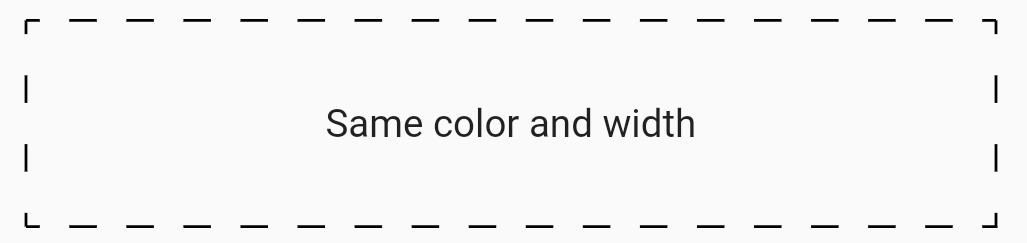
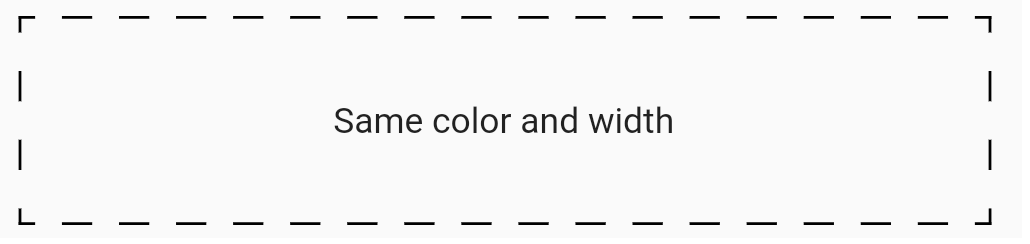
OnlyCorner and StrokeCap features

diff --git a/lib/src/dashed_border.dart b/lib/src/dashed_border.dart
@@ -10,12 +10,16 @@ class DashedBorder extends Border {
     super.right = BorderSide.none,
     super.bottom = BorderSide.none,
     super.left = BorderSide.none,
+    this.isOnlyCorner = false,
+    this.strokeCap = StrokeCap.square,
     required this.dashLength,
   });
 
   /// You can define same side for all corner.
   const DashedBorder.fromBorderSide({
     required BorderSide side,
+    this.isOnlyCorner = false,
+    this.strokeCap = StrokeCap.square,
     required this.dashLength,
   }) : super(bottom: side, top: side, left: side, right: side);
 
@@ -23,6 +27,8 @@ class DashedBorder extends Border {
   const DashedBorder.symmetric({
     BorderSide vertical = BorderSide.none,
     BorderSide horizontal = BorderSide.none,
+    this.isOnlyCorner = false,
+    this.strokeCap = StrokeCap.square,
     required this.dashLength,
   }) : super(
             bottom: horizontal,
@@ -36,14 +42,22 @@ class DashedBorder extends Border {
     double width = 1.0,
     BorderStyle style = BorderStyle.solid,
     dynamic strokeAlign = BorderSide.strokeAlignInside,
+    bool isOnlyCorner = false,
+    StrokeCap strokeCap = StrokeCap.square,
     required double dashLength,
   }) {
     final BorderSide side = BorderSide(
         color: color, width: width, style: style, strokeAlign: strokeAlign);
-    return DashedBorder.fromBorderSide(side: side, dashLength: dashLength);
+    return DashedBorder.fromBorderSide(
+        side: side,
+        dashLength: dashLength,
+        isOnlyCorner: isOnlyCorner,
+        strokeCap: strokeCap);
   }
 
   final double dashLength;
+  final StrokeCap strokeCap;
+  final bool isOnlyCorner;
 
   @override
   void paint(
@@ -97,8 +111,12 @@ class DashedBorder extends Border {
       }
       canvas.drawPath(
           metric.extractPath(distance % metric.length, target % metric.length),
-          top.toPaint());
-      distance = target + topSpacing;
+          top.toPaint()..strokeCap = strokeCap);
+      if (isOnlyCorner && distance < (topWidth) - diff) {
+        distance = (topWidth) - diff;
+      } else {
+        distance = target + topSpacing;
+      }
     }
     //endregion
 
@@ -129,8 +147,13 @@ class DashedBorder extends Border {
       }
       canvas.drawPath(
           metric.extractPath(distance % metric.length, target % metric.length),
-          right.toPaint());
-      distance = target + rightSpacing;
+          right.toPaint()..strokeCap = strokeCap);
+      if (isOnlyCorner &&
+          distance < (metric.length - bottomWidth - leftHeight) - diff) {
+        distance = (metric.length - bottomWidth - leftHeight) - diff;
+      } else {
+        distance = target + rightSpacing;
+      }
     }
     //endregion
 
@@ -159,8 +182,12 @@ class DashedBorder extends Border {
       }
       canvas.drawPath(
           metric.extractPath(distance % metric.length, target % metric.length),
-          bottom.toPaint());
-      distance = target + bottomSpacing;
+          bottom.toPaint()..strokeCap = strokeCap);
+      if (isOnlyCorner && distance < metric.length - leftHeight - diff) {
+        distance = metric.length - leftHeight - diff;
+      } else {
+        distance = target + bottomSpacing;
+      }
     }
     //endregion
 
@@ -190,8 +217,12 @@ class DashedBorder extends Border {
       canvas.drawPath(
           metric.extractPath(distance % metric.length,
               target == metric.length ? metric.length : target % metric.length),
-          left.toPaint());
-      distance = target + leftSpacing;
+          left.toPaint()..strokeCap = strokeCap);
+      if (isOnlyCorner && distance < metric.length - diff) {
+        distance = metric.length - diff;
+      } else {
+        distance = target + leftSpacing;
+      }
     }
     //endregion
   }
@@ -287,15 +318,20 @@ class DashedBorder extends Border {
       if (distance.isNegative && !target.isNegative) {
         canvas.drawPath(
             metric.extractPath(distance % metric.length, metric.length),
-            left.toPaint());
-        canvas.drawPath(metric.extractPath(0, target), left.toPaint());
+            left.toPaint()..strokeCap = strokeCap);
+        canvas.drawPath(metric.extractPath(0, target),
+            left.toPaint()..strokeCap = strokeCap);
       } else {
         canvas.drawPath(
             metric.extractPath(
                 distance % metric.length, target % metric.length),
-            left.toPaint());
+            left.toPaint()..strokeCap = strokeCap);
       }
-      distance = target + leftSpacing;
+      if (isOnlyCorner && distance < leftHeight + topLeftCorner / 2 - diff) {
+        distance = leftHeight + topLeftCorner / 2 - diff;
+      } else {
+        distance = target + leftSpacing;
+      }
     }
     //endregion
 
@@ -337,8 +373,18 @@ class DashedBorder extends Border {
       }
       canvas.drawPath(
           metric.extractPath(distance % metric.length, target % metric.length),
-          top.toPaint());
-      distance = target + topSpacing;
+          top.toPaint()..strokeCap = strokeCap);
+      if (isOnlyCorner &&
+          distance <
+              (leftHeight + topWidth) +
+                  topLeftCorner +
+                  topRightCorner / 2 -
+                  diff) {
+        distance =
+            (leftHeight + topWidth) + topLeftCorner + topRightCorner / 2 - diff;
+      } else {
+        distance = target + topSpacing;
+      }
     }
 
     //endregion
@@ -393,8 +439,22 @@ class DashedBorder extends Border {
       }
       canvas.drawPath(
           metric.extractPath(distance % metric.length, target % metric.length),
-          right.toPaint());
-      distance = target + rightSpacing;
+          right.toPaint()..strokeCap = strokeCap);
+      if (isOnlyCorner &&
+          distance <
+              (metric.length -
+                      bottomWidth -
+                      bottomLeftCorner -
+                      (bottomRightCorner / 2)) -
+                  diff) {
+        distance = (metric.length -
+                bottomWidth -
+                bottomLeftCorner -
+                (bottomRightCorner / 2)) -
+            diff;
+      } else {
+        distance = target + rightSpacing;
+      }
     }
     //endregion
 
@@ -434,8 +494,13 @@ class DashedBorder extends Border {
       }
       canvas.drawPath(
           metric.extractPath(distance % metric.length, target % metric.length),
-          bottom.toPaint());
-      distance = target + bottomSpacing;
+          bottom.toPaint()..strokeCap = strokeCap);
+      if (isOnlyCorner &&
+          distance < metric.length - bottomLeftCorner / 2 - diff) {
+        distance = metric.length - bottomLeftCorner / 2 - diff;
+      } else {
+        distance = target + bottomSpacing;
+      }
     }
   }
   //endregion

diff --git a/example/lib/main.dart b/example/lib/main.dart
@@ -121,6 +121,26 @@ class MyHomePage extends StatelessWidget {
                 ),
               ),
             ),
+            const SizedBox(height: 10),
+            Container(
+              height: 90,
+              decoration: BoxDecoration(
+                border: DashedBorder.all(
+                  color: Colors.black,
+                  dashLength: 40,
+                  width: 2,
+                  isOnlyCorner: true,
+                  strokeAlign: BorderSide.strokeAlignInside,
+                  strokeCap: StrokeCap.round,
+                ),
+                borderRadius: BorderRadius.circular(20),
+              ),
+              child: const Center(
+                child: Text(
+                  'Is only corner',
+                ),
+              ),
+            ),
           ],
         ),
       ),

diff --git a/README.md b/README.md
@@ -50,9 +50,9 @@ Container(
             dashLength: 15, side: BorderSide(color: Colors.black, width: 2)),
         borderRadius: BorderRadius.all(Radius.circular(10))),
     child: const Center(
-    child: Text(
-        'Rounded same color and width',
-    ),
+        child: Text(
+            'Rounded same color and width',
+        ),
     ),
 ),
 ```
@@ -82,9 +82,9 @@ Container(
     ),
     ),
     child: const Center(
-    child: Text(
-        'Different rounded and color',
-    ),
+        child: Text(
+            'Different rounded and color',
+        ),
     ),
 ),
 ```
@@ -93,5 +93,31 @@ Output of this code:
 <img src="https://raw.githubusercontent.com/Biscozum/mobkit_dashed_border/main/images/type3.png" alt="selectionScroll" />
 
 
+#### This sample shows a border drawn only on the corners.
+Sample code:
+```dart
+   Container(
+    height: 90,
+    decoration: BoxDecoration(
+    border: DashedBorder.all(
+        color: Colors.black,
+        dashLength: 40,
+        width: 2,
+        isOnlyCorner: true,
+        strokeAlign: BorderSide.strokeAlignInside,
+        strokeCap: StrokeCap.round,
+    ),
+    borderRadius: BorderRadius.circular(20),
+    ),
+    child: const Center(
+        child: Text(
+        'Is only corner',
+        ),
+    ),
+),
+```
+Output of this code:
+
+<img src="https://raw.githubusercontent.com/Biscozum/mobkit_dashed_border/main/images/type4.png" alt="selectionScroll" />
 
 

diff --git a/CHANGELOG.md b/CHANGELOG.md
@@ -13,3 +13,8 @@
 ## 0.0.4
 
 * Flutter format update.
+
+## 0.0.5
+
+* Added the ability to draw borders only on corners.
+* Strokecap features added for lines.
